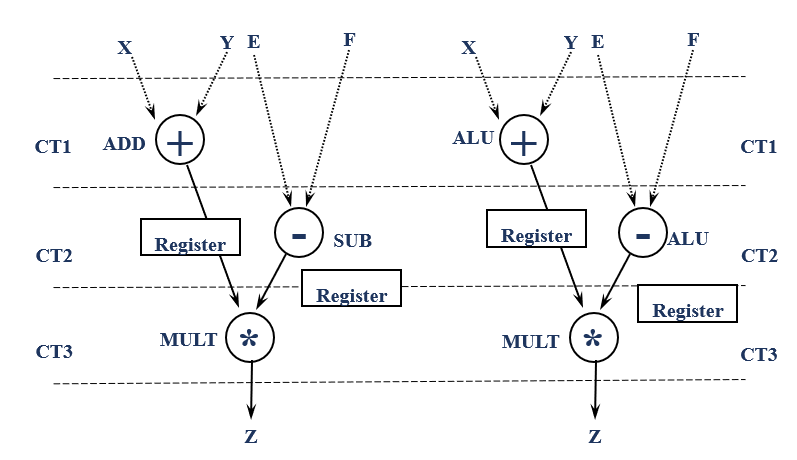
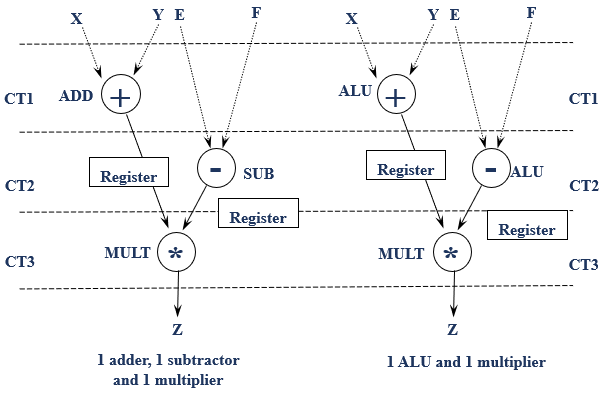
update img

diff --git a/Overview on High-level synthesis technology.md b/Overview on High-level synthesis technology.md
@@ -37,7 +37,7 @@
     在数据流图中，我们看到XY和EF数据之间没有依赖，他们可以选择在同一个Control Step里面并行执行,或者在两个CT里面顺序执行.
     这个过程中调度的并行性由HLS编译器，用户指令共同作用影响着，比如编译器会主动发现可以并行的优化点自动优化，也会误以为某些表达式存在数据依赖无法并行优化等，所以仍需要用户加入指令说明情况。 当然追求更高的并行性对资源也有更大的需求，所以并不是一切调度都以最大并行性为目标。
 
-![Control_step](./img/Control_step.png)
+![Control_step](./img/control_step.png)
 
 - Binding 绑定
 
